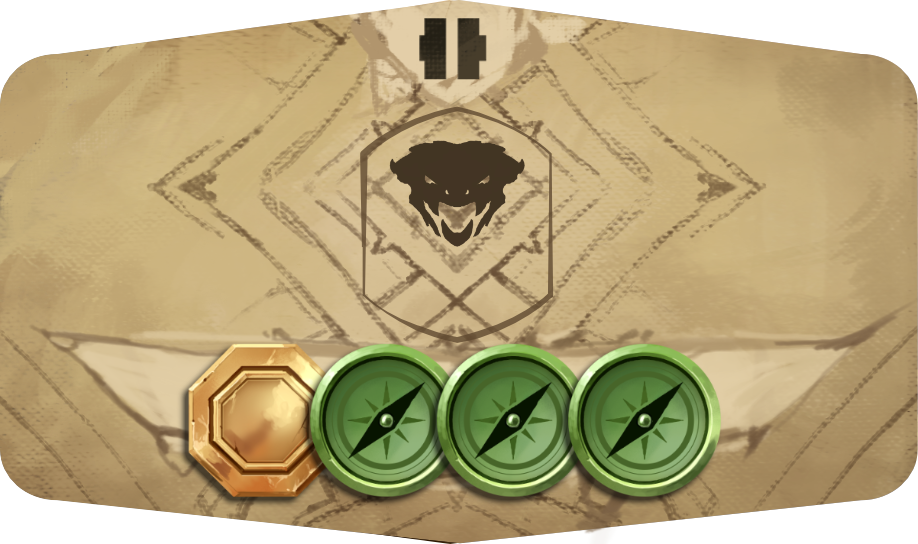
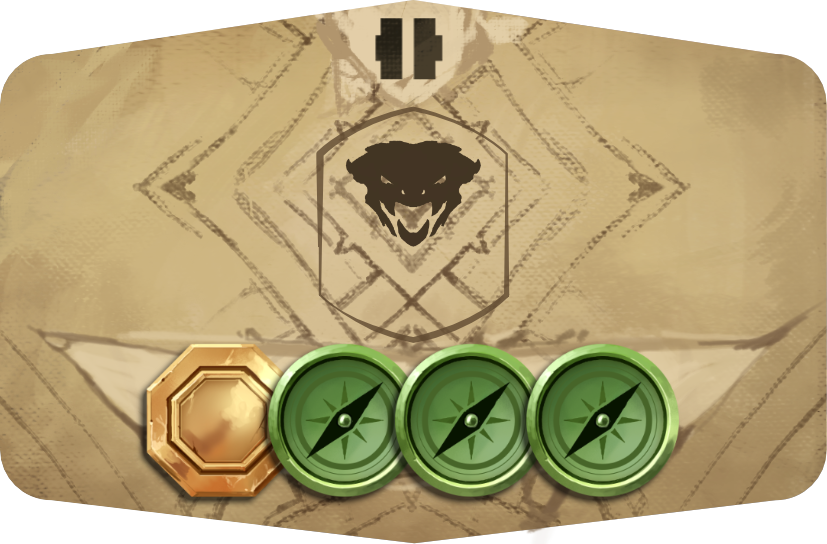
Map added as background for locations

diff --git a/src/components/locations/old/ExploredLocation.js b/src/components/locations/old/ExploredLocation.js
@@ -1,13 +1,14 @@
-import React, {useContext} from "react";
-import {BoardStateContext} from "../../Contexts";
-import {LOCATION_TYPE} from "../../data/idLists";
+import React, {useContext, useState} from "react";
+import {AdventurerToken} from "../../Symbols";
+import {BoardStateContext} from "../../../Contexts";
+import {LOCATION_STATE, LOCATION_TYPE} from "../../../data/idLists";
+import {GLOBAL_VARS} from "../../functions/initialStateFunctions";
 
 export default function ExploredLocation(props) {
     const boardStateContext = useContext(BoardStateContext);
-    let location = props.location;
+    const location = props.location;
+    const playerOwner = null;
     location.state = props.state;
-
-
 
     const transportIcons = [];
     for (let i = 0; i < location.useCost.amount; i++) {
@@ -17,11 +18,12 @@ export default function ExploredLocation(props) {
     /* initial colors are changed based on tLocation type */
     let fillColor = "#cdcdcd";
     let tokenFillColor = "#9f9f9f";
-    // eslint-disable-next-line no-unused-vars
     let tokenStrokeColor = "#616161";
 
     /* svg element sizes */
     const locationRadius = 75;
+    const tokenRadius = 30;
+    const tokenStrokeWidth = 1;
     const levelRectSide = 30;
 
     switch (props.type) {
@@ -35,6 +37,11 @@ export default function ExploredLocation(props) {
             tokenFillColor = "#ECB767";
             tokenStrokeColor = "#705731";
             break;
+        case LOCATION_TYPE.mixed:
+            fillColor = "#8d4646";
+            tokenFillColor = "#ECB767";
+            tokenStrokeColor = "#705731";
+            break;
         default:
             console.log("Unknown tLocation type in component Location: ");
             console.log(location);
@@ -45,13 +52,10 @@ export default function ExploredLocation(props) {
         position: "relative",
         textAlign: "center",
         margin: 5,
-        cursor: "pointer",
     };
 
     const effectsStyle = {
-        marginTop: "11%",
-        display: "block",
-        maxWidth: 150,
+        marginTop: "2%",
     };
 
     const svgStyle = {
@@ -61,17 +65,32 @@ export default function ExploredLocation(props) {
         zIndex: -1,
     };
 
-    return (
+    const adventurerStyle = {
+        marginTop: 10,
+    };
 
-            <div><div style={containerStyle}
-                      onClick={() => boardStateContext.handleClickOnLocation(location.effects, location, props.line)}>
+    function handleClickOnExploredLocation() {
+        if (location.state === LOCATION_STATE.explored) {
+            boardStateContext.handleClickOnLocation(location.effects, location, props.line)
+        }
+    }
+
+    return (
+        <div style={containerStyle}
+             onClick={() => handleClickOnExploredLocation()}>
+            <div>
                 <div>{props.level}</div>
-                <div style={effectsStyle}>{{/*exploreCost*/}}</div>
+                <div style={effectsStyle}>{location.effectsText}</div>
                 <svg width={locationRadius * 2.01} height={locationRadius * 2.01} style={svgStyle}>
                     <circle cx={locationRadius} cy={locationRadius} r={locationRadius} fill={fillColor}/>
                     <rect x={locationRadius - 0.5 * levelRectSide} y={0.1 * locationRadius} width={levelRectSide}
                           height={levelRectSide} fill={tokenFillColor} rx="3" ry="3"/>
+                    <circle cx={locationRadius} cy={locationRadius + 0.55 * locationRadius} r={tokenRadius}
+                            fill={tokenFillColor} stroke={tokenStrokeColor} strokeWidth={tokenStrokeWidth}/>
                 </svg>
+                <div style={adventurerStyle}>
+                    {props.state === LOCATION_STATE.explored ? transportIcons : <AdventurerToken color={GLOBAL_VARS.playerColors[playerOwner]} />}
+                </div>
             </div>
         </div>
     )

diff --git a/src/components/locations/old/UnexploredLocation.js b/src/components/locations/old/UnexploredLocation.js
@@ -1,14 +1,13 @@
-import React, {useContext, useState} from "react";
-import {AdventurerToken} from "../Symbols";
-import {BoardStateContext} from "../../Contexts";
-import {LOCATION_STATE, LOCATION_TYPE} from "../../data/idLists";
-import {GLOBAL_VARS} from "../functions/initialStateFunctions";
+import React, {useContext} from "react";
+import {BoardStateContext} from "../../../Contexts";
+import {LOCATION_TYPE} from "../../../data/idLists";
 
 export default function ExploredLocation(props) {
     const boardStateContext = useContext(BoardStateContext);
-    const location = props.location;
-    const playerOwner = null;
+    let location = props.location;
     location.state = props.state;
+
+
 
     const transportIcons = [];
     for (let i = 0; i < location.useCost.amount; i++) {
@@ -18,12 +17,11 @@ export default function ExploredLocation(props) {
     /* initial colors are changed based on tLocation type */
     let fillColor = "#cdcdcd";
     let tokenFillColor = "#9f9f9f";
+    // eslint-disable-next-line no-unused-vars
     let tokenStrokeColor = "#616161";
 
     /* svg element sizes */
     const locationRadius = 75;
-    const tokenRadius = 30;
-    const tokenStrokeWidth = 1;
     const levelRectSide = 30;
 
     switch (props.type) {
@@ -37,11 +35,6 @@ export default function ExploredLocation(props) {
             tokenFillColor = "#ECB767";
             tokenStrokeColor = "#705731";
             break;
-        case LOCATION_TYPE.mixed:
-            fillColor = "#8d4646";
-            tokenFillColor = "#ECB767";
-            tokenStrokeColor = "#705731";
-            break;
         default:
             console.log("Unknown tLocation type in component Location: ");
             console.log(location);
@@ -52,10 +45,13 @@ export default function ExploredLocation(props) {
         position: "relative",
         textAlign: "center",
         margin: 5,
+        cursor: "pointer",
     };
 
     const effectsStyle = {
-        marginTop: "2%",
+        marginTop: "11%",
+        display: "block",
+        maxWidth: 150,
     };
 
     const svgStyle = {
@@ -65,32 +61,17 @@ export default function ExploredLocation(props) {
         zIndex: -1,
     };
 
-    const adventurerStyle = {
-        marginTop: 10,
-    };
-
-    function handleClickOnExploredLocation() {
-        if (location.state === LOCATION_STATE.explored) {
-            boardStateContext.handleClickOnLocation(location.effects, location, props.line)
-        }
-    }
-
     return (
-        <div style={containerStyle}
-             onClick={() => handleClickOnExploredLocation()}>
-            <div>
+
+            <div><div style={containerStyle}
+                      onClick={() => boardStateContext.handleClickOnLocation(location.effects, location, props.line)}>
                 <div>{props.level}</div>
-                <div style={effectsStyle}>{location.effectsText}</div>
+                <div style={effectsStyle}>{{/*exploreCost*/}}</div>
                 <svg width={locationRadius * 2.01} height={locationRadius * 2.01} style={svgStyle}>
                     <circle cx={locationRadius} cy={locationRadius} r={locationRadius} fill={fillColor}/>
                     <rect x={locationRadius - 0.5 * levelRectSide} y={0.1 * locationRadius} width={levelRectSide}
                           height={levelRectSide} fill={tokenFillColor} rx="3" ry="3"/>
-                    <circle cx={locationRadius} cy={locationRadius + 0.55 * locationRadius} r={tokenRadius}
-                            fill={tokenFillColor} stroke={tokenStrokeColor} strokeWidth={tokenStrokeWidth}/>
                 </svg>
-                <div style={adventurerStyle}>
-                    {props.state === LOCATION_STATE.explored ? transportIcons : <AdventurerToken color={GLOBAL_VARS.playerColors[playerOwner]} />}
-                </div>
             </div>
         </div>
     )

diff --git a/src/components/locations/LocationsArea.js b/src/components/locations/LocationsArea.js
@@ -2,17 +2,18 @@ import React, {useContext} from "react";
 import {BoardStateContext} from "../../Contexts";
 import {Locations} from "../../data/locations";
 import Location from "./Location";
+import map from "../../img/map.png"
 
 export default function LocationsArea() {
     const boardStateContext = useContext(BoardStateContext);
     const locations = boardStateContext.locations;
 
-    const marginTop = {
-      marginTop: "3vw",
+    const container = {
+        marginTop: "3vw",
     };
 
-    const style = {
-        marginTop: "-3vw",
+    const locationStyle = {
+        marginTop: "-1.4vw",
     };
 
     const leftMargin = {
@@ -23,10 +24,19 @@ export default function LocationsArea() {
         minWidth: 116,
     };
 
+    const bgrImg = {
+        position: "absolute",
+        width: "80vw",
+        height: "33vw",
+        left: 0,
+        zIndex: -1
+    };
+
     return (
-        <div style={marginTop}>
+        <div style={container}>
+            <img src={map} style={bgrImg}/>
             <div style={leftMargin}>
-                <div style={style} className="d-flex flex-row position-relative">
+                <div style={locationStyle} className="d-flex flex-row position-relative">
                     <br/>
                     {locations !== null && locations.line4.map((location, i) => {
                         if (location === "empty") {
@@ -34,7 +44,7 @@ export default function LocationsArea() {
                         } else {
                             return (
                                 <div key={"locationLine1-" + i}>
-                                    <Location location={Locations[location.id]} idLocation={location} />
+                                    <Location location={Locations[location.id]} idLocation={location}/>
                                 </div>
                             )
                         }
@@ -42,27 +52,27 @@ export default function LocationsArea() {
                     }
                 </div>
             </div>
-            <div style={style} className="d-flex flex-row position-relative">
+            <div style={locationStyle} className="d-flex flex-row position-relative">
                 <br/>
                 {locations !== null && locations.line3.map((location, i) =>
                     <div key={"locationLine1-" + i}>
-                        <Location location={Locations[location.id]} idLocation={location} />
+                        <Location location={Locations[location.id]} idLocation={location}/>
                     </div>
                 )}
             </div>
             <div style={leftMargin}>
-                <div style={style} className="d-flex flex-row position-relative">
+                <div style={locationStyle} className="d-flex flex-row position-relative">
                     {locations !== null && locations.line2.map((location, i) =>
                         <div key={"locationLine1-" + i}>
-                            <Location location={Locations[location.id]} idLocation={location} />
+                            <Location location={Locations[location.id]} idLocation={location}/>
                         </div>
                     )}
                 </div>
             </div>
-            <div style={style} className="d-flex flex-row position-relative">
+            <div style={locationStyle} className="d-flex flex-row position-relative">
                 {locations !== null && locations.line1.map((location, i) =>
                     <div key={"locationLine1-" + i}>
-                        <Location location={Locations[location.id]} idLocation={location} />
+                        <Location location={Locations[location.id]} idLocation={location}/>
                     </div>
                 )}
             </div>

diff --git a/src/components/locations/old/Location_circle.js b/src/components/locations/old/Location_circle.js
@@ -1,9 +1,9 @@
 import React, {useContext} from "react";
-import {AdventurerToken} from "../Symbols";
-import {BoardStateContext} from "../../Contexts";
-import {LOCATION_LEVEL, LOCATION_STATE, LOCATION_TYPE} from "../../data/idLists";
-import {GLOBAL_VARS} from "../functions/initialStateFunctions";
-import {LOCATIONS_EXPLORE_COST} from "../../data/locations";
+import {AdventurerToken} from "../../Symbols";
+import {BoardStateContext} from "../../../Contexts";
+import {LOCATION_LEVEL, LOCATION_STATE, LOCATION_TYPE} from "../../../data/idLists";
+import {GLOBAL_VARS} from "../../functions/initialStateFunctions";
+import {LOCATIONS_EXPLORE_COST} from "../../../data/locations";
 
 export default function Location(props) {
     const boardStateContext = useContext(BoardStateContext);

diff --git a/src/components/locations/Location.js b/src/components/locations/Location.js
@@ -11,7 +11,7 @@ import {
     BgrBrown3, BgrBrown3Unexplored,
     BgrGreen2, BgrGreen2Unexplored,
     BgrGreen3, BgrGreen3Unexplored
-} from "./locations_images";
+} from "./locationsImages";
 
 export default function Location(props) {
     const boardStateContext = useContext(BoardStateContext);

diff --git a/src/data/locations.js b/src/data/locations.js
@@ -27,7 +27,7 @@ import {
     G23,
     G24,
     G25, G26, G31, G32, G33, L11, L12, L13, L14, L15
-} from "../components/locations/locations_images";
+} from "../components/locations/locationsImages";
 
 export const TRANSPORT_TYPE = Object.freeze({
     walk: <Walk />,

diff --git a/src/components/main/topSlidingPanel.js b/src/components/main/topSlidingPanel.js
@@ -17,7 +17,7 @@ export default function TopSlidingPanel() {
 
     const buttonStyle = {
       position: "absolute",
-        top: "0.5vh",
+        bottom: "2.5vh",
         right: "1vw",
         backgroundColor: "#74a69f",
         width: 40,
